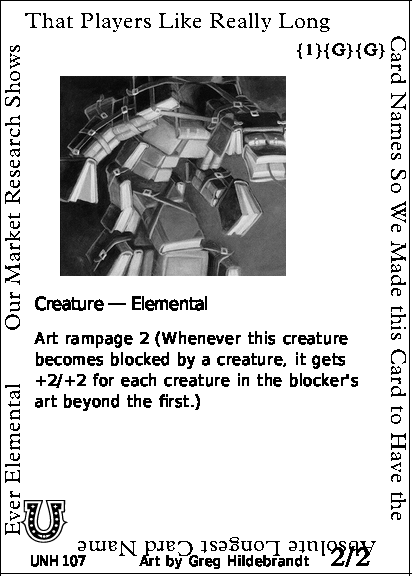
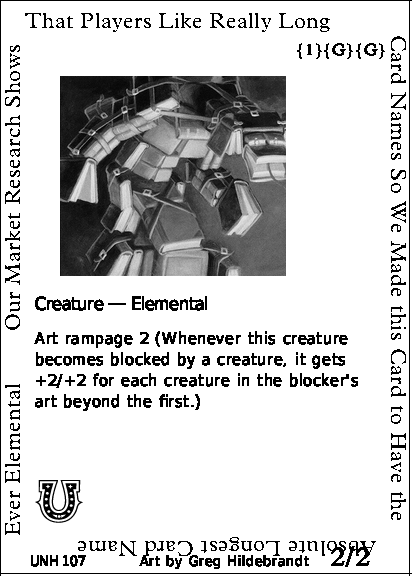
Refactor border wrapping logic and enhance layout adjustments for card rendering

Changed region(s): [[0.0583, 0.8125, 0.2039, 0.9688]]

diff --git a/oracle_escpos/src/card.rs b/oracle_escpos/src/card.rs
@@ -1,5 +1,5 @@
 use crate::{
-    layout::{BorderStyle, Layout},
+    layout::{self, BorderStyle, Layout},
     render::{
         BorderWrapConfig, draw_border, draw_svg, draw_text, draw_text_around_border, text_width,
     },
@@ -96,40 +96,44 @@ impl CardImage {
         // Card name
         //
 
-        // Determine if full-wrap border mode is required
-        let use_border_wrap = {
+        // Determine border wrapping style (Standard, SemiWrap, or FullWrap)
+        let border_style = {
             let name_style = &layout.name;
             let name_font_data = layout.font_data(name_style.font);
             let name_width = layout.text_width(&self.card.core.name, name_style);
 
             if let Some(long_text_font_size) = name_style.long_text_font_size {
                 if name_width > name_style.wrap_width as f32 {
-                    let post_width = text_width(
+                    let total_text_len = text_width(
                         &self.card.core.name,
                         name_font_data,
                         long_text_font_size,
                         0.5,
                     );
-                    post_width > (name_style.wrap_width + 10) as f32
+                    let standard_wrap_limit = (name_style.wrap_width + 10) as f32;
+
+                    if total_text_len > layout.border_path.bottom_threshold() {
+                        BorderStyle::FullWrap
+                    } else if total_text_len > standard_wrap_limit {
+                        BorderStyle::SemiWrap
+                    } else {
+                        BorderStyle::Standard
+                    }
                 } else {
-                    false
+                    BorderStyle::Standard
                 }
             } else {
-                false
+                BorderStyle::Standard
             }
         };
 
-        // Update layout state (layout is no longer borrowed here)
-        if use_border_wrap {
-            layout.border_style = BorderStyle::FullWrap;
+        // Update layout state
+        layout.border_style = border_style;
 
-            // Adjust margins dynamically so text doesn't overlap the left border
-            layout.type_line.x = 35;
-            layout.rules.x = 35;
-            layout.rules.wrap_width = 350;
-        }
+        // Apply layout modifications from the local variable
+        border_style.apply_layout_adjustments(&mut layout);
 
-        // Proceed with rendering standard or full-wrap text
+        // Proceed with rendering standard or border-wrap text
         let name_style = &layout.name;
         let name_font_data = layout.font_data(name_style.font);
         let name_width = layout.text_width(&self.card.core.name, name_style);
@@ -145,26 +149,29 @@ impl CardImage {
                 (name_style.font_size, name_style.letter_spacing)
             };
 
-        if layout.border_style == BorderStyle::FullWrap {
-            draw_text_around_border(
-                &mut card_img,
-                &self.card.core.name,
-                name_font_data,
-                font_size,
-                letter_spacing,
-                &layout.border_path,
-            );
-        } else {
-            draw_text(
-                &mut card_img,
-                &self.card.core.name,
-                name_style.x,
-                name_style.y,
-                name_font_data,
-                font_size,
-                letter_spacing,
-                name_style.wrap_width,
-            );
+        match layout.border_style {
+            BorderStyle::FullWrap | BorderStyle::SemiWrap => {
+                draw_text_around_border(
+                    &mut card_img,
+                    &self.card.core.name,
+                    name_font_data,
+                    font_size,
+                    letter_spacing,
+                    &layout.border_path,
+                );
+            }
+            BorderStyle::Standard => {
+                draw_text(
+                    &mut card_img,
+                    &self.card.core.name,
+                    name_style.x,
+                    name_style.y,
+                    name_font_data,
+                    font_size,
+                    letter_spacing,
+                    name_style.wrap_width,
+                );
+            }
         }
         // End of Card Name render block
 

diff --git a/oracle_escpos/src/layout.rs b/oracle_escpos/src/layout.rs
@@ -138,11 +138,44 @@ impl Default for BorderPathLayout {
         }
     }
 }
+impl BorderPathLayout {
+    /// Distance along perimeter where text reaches the bottom edge.
+    pub fn bottom_threshold(&self) -> f32 {
+        let left_height = (self.left_side_bottom_y - self.left_side_top_y) as f32;
+        let top_width = (self.top_end_x - self.top_start_x) as f32;
+        let right_height = (self.right_side_bottom_y - self.right_side_top_y) as f32;
+
+        left_height + top_width + right_height
+    }
+}
 
 #[derive(Debug, Clone, Copy, PartialEq, Eq)]
 pub enum BorderStyle {
     Standard,
     FullWrap,
+    SemiWrap,
+}
+impl BorderStyle {
+    /// Applies layout margin and dimension shifts based on the border style.
+    pub fn apply_layout_adjustments(&self, layout: &mut Layout) {
+        match self {
+            BorderStyle::FullWrap => {
+                layout.type_line.x = 35;
+                layout.rules.x = 35;
+                layout.rules.wrap_width = 350;
+                layout.set_icon.x = 35;
+                layout.set_icon.y = 476;
+            }
+            BorderStyle::Standard => {
+                // Default margins stay intact
+            }
+            BorderStyle::SemiWrap => {
+                layout.type_line.x = 35;
+                layout.rules.x = 35;
+                layout.rules.wrap_width = 350;
+            }
+        }
+    }
 }
 
 #[derive(Debug, Clone)]
